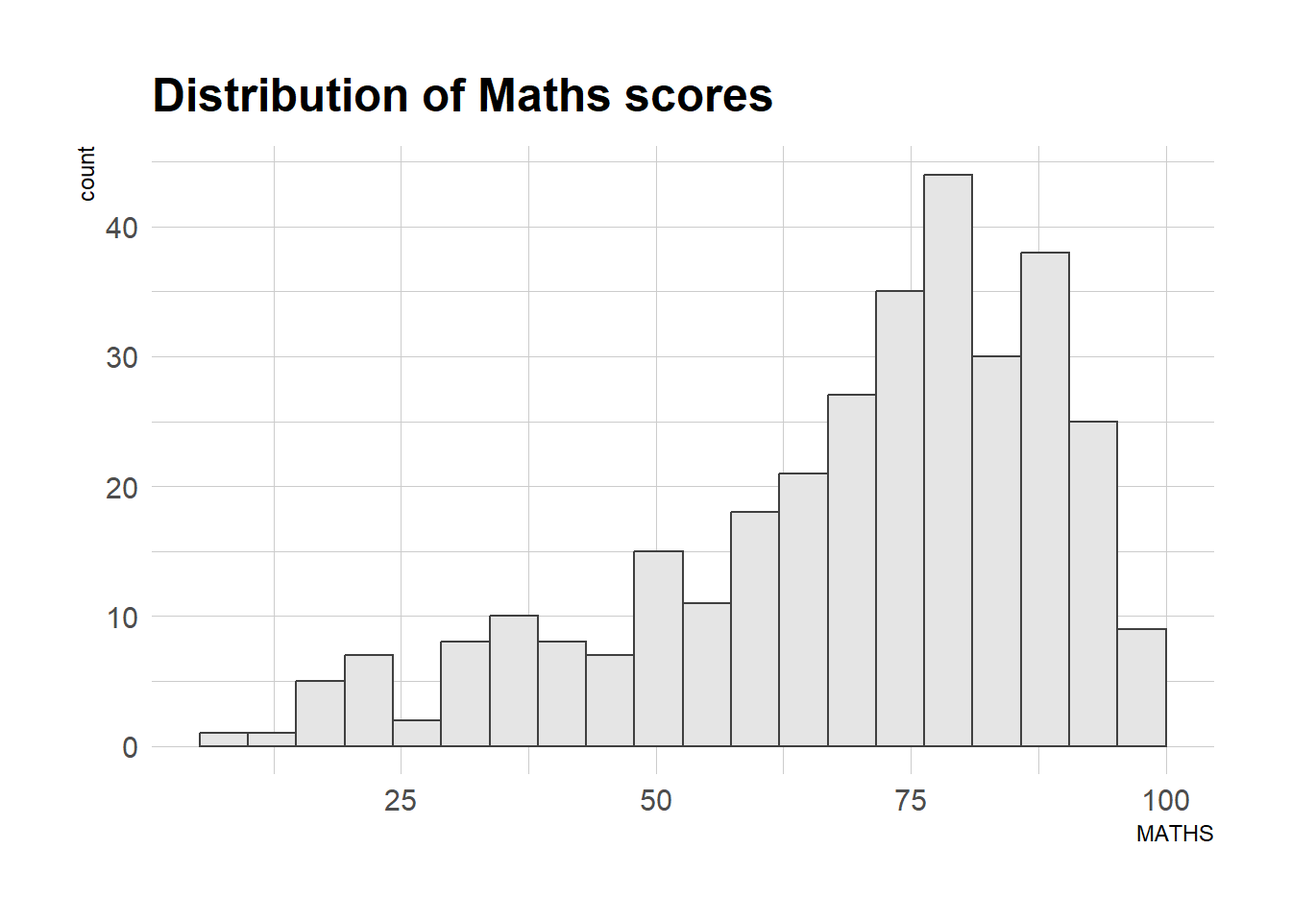
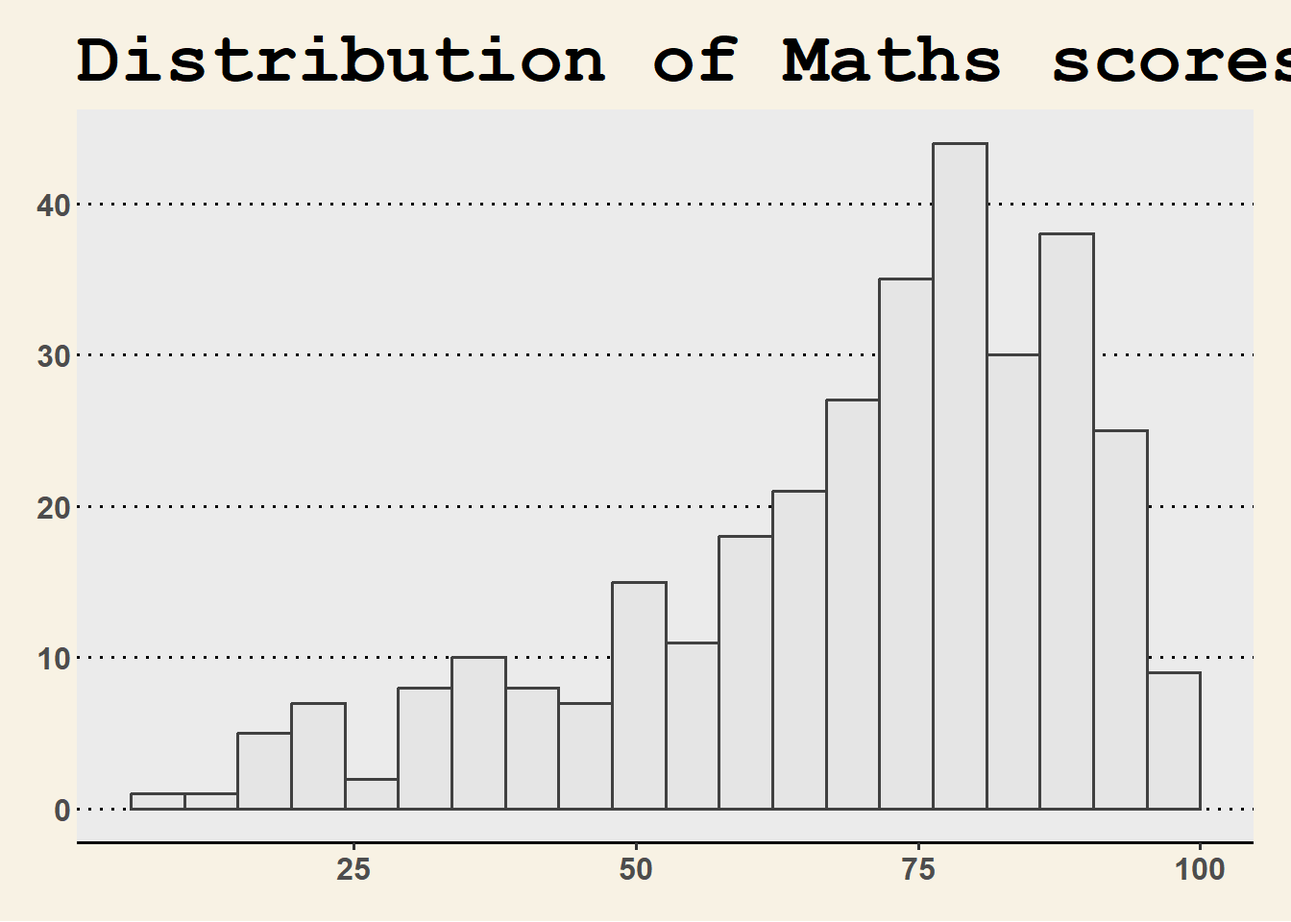
First alternative

diff --git a/_site/HO_EX02.html b/_site/HO_EX02.html
@@ -171,7 +171,7 @@ pre > code.sourceCode > span > a:first-child::before { text-decoration: underlin
    
   <ul>
   <li><a href="#beyond-ggplot2-fundamentals" id="toc-beyond-ggplot2-fundamentals" class="nav-link active" data-scroll-target="#beyond-ggplot2-fundamentals"><span class="header-section-number">1</span> Beyond ggplot2 Fundamentals</a>
-  <ul class="collapse">
+  <ul>
   <li><a href="#overview" id="toc-overview" class="nav-link" data-scroll-target="#overview"><span class="header-section-number">1.1</span> Overview</a></li>
   <li><a href="#getting-started" id="toc-getting-started" class="nav-link" data-scroll-target="#getting-started"><span class="header-section-number">1.2</span> Getting Started</a>
   <ul class="collapse">
@@ -184,7 +184,10 @@ pre > code.sourceCode > span > a:first-child::before { text-decoration: underlin
   </ul></li>
   <li><a href="#beyond-ggplot2-themes" id="toc-beyond-ggplot2-themes" class="nav-link" data-scroll-target="#beyond-ggplot2-themes"><span class="header-section-number">1.4</span> Beyond ggplot2 Themes</a>
   <ul class="collapse">
-  <li><a href="#working-with-ggtheme-package" id="toc-working-with-ggtheme-package" class="nav-link" data-scroll-target="#working-with-ggtheme-package"><span class="header-section-number">1.4.1</span> Working with ggtheme package</a></li>
+  <li><a href="#working-with-ggtheme-package" id="toc-working-with-ggtheme-package" class="nav-link" data-scroll-target="#working-with-ggtheme-package"><span class="header-section-number">1.4.1</span> Working with ggtheme package</a>
+  <ul class="collapse">
+  <li><a href="#extra-alternative-applying-wsg" id="toc-extra-alternative-applying-wsg" class="nav-link" data-scroll-target="#extra-alternative-applying-wsg"><span class="header-section-number">1.4.1.1</span> Extra alternative: Applying wsg()</a></li>
+  </ul></li>
   <li><a href="#working-with-hrbthems-package" id="toc-working-with-hrbthems-package" class="nav-link" data-scroll-target="#working-with-hrbthems-package"><span class="header-section-number">1.4.2</span> Working with hrbthems package</a></li>
   </ul></li>
   <li><a href="#beyond-single-graph" id="toc-beyond-single-graph" class="nav-link" data-scroll-target="#beyond-single-graph"><span class="header-section-number">1.5</span> Beyond Single Graph</a>
@@ -421,6 +424,28 @@ pre > code.sourceCode > span > a:first-child::before { text-decoration: underlin
 </div>
 </div>
 <p>It also provides some extra geoms and scales for ‘ggplot2’. Consult this <a href="https://yutannihilation.github.io/allYourFigureAreBelongToUs/ggthemes/">vignette</a> to learn more.</p>
+<section id="extra-alternative-applying-wsg" class="level4" data-number="1.4.1.1">
+<h4 data-number="1.4.1.1" class="anchored" data-anchor-id="extra-alternative-applying-wsg"><span class="header-section-number">1.4.1.1</span> Extra alternative: Applying wsg()</h4>
+<p>This alternative applies theme_fivethirtyeight() from the ggthemes package to the scatterplot. It gives the chart a cleaner look with a style similar to Wall Street Journal graphics.</p>
+<p>This is useful because it changes the overall visual style of the chart and can cater to different tastes.</p>
+<div class="cell">
+<div class="code-copy-outer-scaffold"><div class="sourceCode cell-code" id="cb7"><pre class="sourceCode r code-with-copy"><code class="sourceCode r"><span id="cb7-1"><a href="#cb7-1" aria-hidden="true" tabindex="-1"></a><span class="fu">ggplot</span>(<span class="at">data=</span>exam_data, </span>
+<span id="cb7-2"><a href="#cb7-2" aria-hidden="true" tabindex="-1"></a>             <span class="fu">aes</span>(<span class="at">x =</span> MATHS)) <span class="sc">+</span></span>
+<span id="cb7-3"><a href="#cb7-3" aria-hidden="true" tabindex="-1"></a>  <span class="fu">geom_histogram</span>(<span class="at">bins=</span><span class="dv">20</span>, </span>
+<span id="cb7-4"><a href="#cb7-4" aria-hidden="true" tabindex="-1"></a>                 <span class="at">boundary =</span> <span class="dv">100</span>,</span>
+<span id="cb7-5"><a href="#cb7-5" aria-hidden="true" tabindex="-1"></a>                 <span class="at">color=</span><span class="st">"grey25"</span>, </span>
+<span id="cb7-6"><a href="#cb7-6" aria-hidden="true" tabindex="-1"></a>                 <span class="at">fill=</span><span class="st">"grey90"</span>) <span class="sc">+</span></span>
+<span id="cb7-7"><a href="#cb7-7" aria-hidden="true" tabindex="-1"></a>  <span class="fu">ggtitle</span>(<span class="st">"Distribution of Maths scores"</span>) <span class="sc">+</span></span>
+<span id="cb7-8"><a href="#cb7-8" aria-hidden="true" tabindex="-1"></a>  <span class="fu">theme_wsj</span>()</span></code></pre></div><button title="Copy to Clipboard" class="code-copy-button"><i class="bi"></i></button></div>
+<div class="cell-output-display">
+<div>
+<figure class="figure">
+<p><img src="HO_EX02_files/figure-html/unnamed-chunk-11-1.png" class="img-fluid figure-img" width="672"></p>
+</figure>
+</div>
+</div>
+</div>
+</section>
 </section>
 <section id="working-with-hrbthems-package" class="level3" data-number="1.4.2">
 <h3 data-number="1.4.2" class="anchored" data-anchor-id="working-with-hrbthems-package"><span class="header-section-number">1.4.2</span> Working with hrbthems package</h3>
@@ -433,7 +458,7 @@ pre > code.sourceCode > span > a:first-child::before { text-decoration: underlin
 <div class="cell-output-display">
 <div>
 <figure class="figure">
-<p><img src="HO_EX02_files/figure-html/unnamed-chunk-11-1.png" class="img-fluid figure-img" width="672"></p>
+<p><img src="HO_EX02_files/figure-html/unnamed-chunk-12-1.png" class="img-fluid figure-img" width="672"></p>
 </figure>
 </div>
 </div>
@@ -441,14 +466,14 @@ pre > code.sourceCode > span > a:first-child::before { text-decoration: underlin
 </div>
 <div id="tabset-5-2" class="tab-pane" role="tabpanel" aria-labelledby="tabset-5-2-tab">
 <div class="cell">
-<div class="code-copy-outer-scaffold"><div class="sourceCode cell-code" id="cb7"><pre class="sourceCode r code-with-copy"><code class="sourceCode r"><span id="cb7-1"><a href="#cb7-1" aria-hidden="true" tabindex="-1"></a><span class="fu">ggplot</span>(<span class="at">data=</span>exam_data, </span>
-<span id="cb7-2"><a href="#cb7-2" aria-hidden="true" tabindex="-1"></a>             <span class="fu">aes</span>(<span class="at">x =</span> MATHS)) <span class="sc">+</span></span>
-<span id="cb7-3"><a href="#cb7-3" aria-hidden="true" tabindex="-1"></a>  <span class="fu">geom_histogram</span>(<span class="at">bins=</span><span class="dv">20</span>, </span>
-<span id="cb7-4"><a href="#cb7-4" aria-hidden="true" tabindex="-1"></a>                 <span class="at">boundary =</span> <span class="dv">100</span>,</span>
-<span id="cb7-5"><a href="#cb7-5" aria-hidden="true" tabindex="-1"></a>                 <span class="at">color=</span><span class="st">"grey25"</span>, </span>
-<span id="cb7-6"><a href="#cb7-6" aria-hidden="true" tabindex="-1"></a>                 <span class="at">fill=</span><span class="st">"grey90"</span>) <span class="sc">+</span></span>
-<span id="cb7-7"><a href="#cb7-7" aria-hidden="true" tabindex="-1"></a>  <span class="fu">ggtitle</span>(<span class="st">"Distribution of Maths scores"</span>) <span class="sc">+</span></span>
-<span id="cb7-8"><a href="#cb7-8" aria-hidden="true" tabindex="-1"></a>  <span class="fu">theme_ipsum</span>()</span></code></pre></div><button title="Copy to Clipboard" class="code-copy-button"><i class="bi"></i></button></div>
+<div class="code-copy-outer-scaffold"><div class="sourceCode cell-code" id="cb8"><pre class="sourceCode r code-with-copy"><code class="sourceCode r"><span id="cb8-1"><a href="#cb8-1" aria-hidden="true" tabindex="-1"></a><span class="fu">ggplot</span>(<span class="at">data=</span>exam_data, </span>
+<span id="cb8-2"><a href="#cb8-2" aria-hidden="true" tabindex="-1"></a>             <span class="fu">aes</span>(<span class="at">x =</span> MATHS)) <span class="sc">+</span></span>
+<span id="cb8-3"><a href="#cb8-3" aria-hidden="true" tabindex="-1"></a>  <span class="fu">geom_histogram</span>(<span class="at">bins=</span><span class="dv">20</span>, </span>
+<span id="cb8-4"><a href="#cb8-4" aria-hidden="true" tabindex="-1"></a>                 <span class="at">boundary =</span> <span class="dv">100</span>,</span>
+<span id="cb8-5"><a href="#cb8-5" aria-hidden="true" tabindex="-1"></a>                 <span class="at">color=</span><span class="st">"grey25"</span>, </span>
+<span id="cb8-6"><a href="#cb8-6" aria-hidden="true" tabindex="-1"></a>                 <span class="at">fill=</span><span class="st">"grey90"</span>) <span class="sc">+</span></span>
+<span id="cb8-7"><a href="#cb8-7" aria-hidden="true" tabindex="-1"></a>  <span class="fu">ggtitle</span>(<span class="st">"Distribution of Maths scores"</span>) <span class="sc">+</span></span>
+<span id="cb8-8"><a href="#cb8-8" aria-hidden="true" tabindex="-1"></a>  <span class="fu">theme_ipsum</span>()</span></code></pre></div><button title="Copy to Clipboard" class="code-copy-button"><i class="bi"></i></button></div>
 </div>
 </div>
 </div>
@@ -462,7 +487,7 @@ pre > code.sourceCode > span > a:first-child::before { text-decoration: underlin
 <div class="cell-output-display">
 <div>
 <figure class="figure">
-<p><img src="HO_EX02_files/figure-html/unnamed-chunk-13-1.png" class="img-fluid figure-img" width="672"></p>
+<p><img src="HO_EX02_files/figure-html/unnamed-chunk-14-1.png" class="img-fluid figure-img" width="672"></p>
 </figure>
 </div>
 </div>
@@ -470,16 +495,16 @@ pre > code.sourceCode > span > a:first-child::before { text-decoration: underlin
 </div>
 <div id="tabset-6-2" class="tab-pane" role="tabpanel" aria-labelledby="tabset-6-2-tab">
 <div class="cell">
-<div class="code-copy-outer-scaffold"><div class="sourceCode cell-code" id="cb8"><pre class="sourceCode r code-with-copy"><code class="sourceCode r"><span id="cb8-1"><a href="#cb8-1" aria-hidden="true" tabindex="-1"></a><span class="fu">ggplot</span>(<span class="at">data=</span>exam_data, </span>
-<span id="cb8-2"><a href="#cb8-2" aria-hidden="true" tabindex="-1"></a>             <span class="fu">aes</span>(<span class="at">x =</span> MATHS)) <span class="sc">+</span></span>
-<span id="cb8-3"><a href="#cb8-3" aria-hidden="true" tabindex="-1"></a>  <span class="fu">geom_histogram</span>(<span class="at">bins=</span><span class="dv">20</span>, </span>
-<span id="cb8-4"><a href="#cb8-4" aria-hidden="true" tabindex="-1"></a>                 <span class="at">boundary =</span> <span class="dv">100</span>,</span>
-<span id="cb8-5"><a href="#cb8-5" aria-hidden="true" tabindex="-1"></a>                 <span class="at">color=</span><span class="st">"grey25"</span>, </span>
-<span id="cb8-6"><a href="#cb8-6" aria-hidden="true" tabindex="-1"></a>                 <span class="at">fill=</span><span class="st">"grey90"</span>) <span class="sc">+</span></span>
-<span id="cb8-7"><a href="#cb8-7" aria-hidden="true" tabindex="-1"></a>  <span class="fu">ggtitle</span>(<span class="st">"Distribution of Maths scores"</span>) <span class="sc">+</span></span>
-<span id="cb8-8"><a href="#cb8-8" aria-hidden="true" tabindex="-1"></a>  <span class="fu">theme_ipsum</span>(<span class="at">axis_title_size =</span> <span class="dv">18</span>,</span>
-<span id="cb8-9"><a href="#cb8-9" aria-hidden="true" tabindex="-1"></a>              <span class="at">base_size =</span> <span class="dv">15</span>,</span>
-<span id="cb8-10"><a href="#cb8-10" aria-hidden="true" tabindex="-1"></a>              <span class="at">grid =</span> <span class="st">"Y"</span>)</span></code></pre></div><button title="Copy to Clipboard" class="code-copy-button"><i class="bi"></i></button></div>
+<div class="code-copy-outer-scaffold"><div class="sourceCode cell-code" id="cb9"><pre class="sourceCode r code-with-copy"><code class="sourceCode r"><span id="cb9-1"><a href="#cb9-1" aria-hidden="true" tabindex="-1"></a><span class="fu">ggplot</span>(<span class="at">data=</span>exam_data, </span>
+<span id="cb9-2"><a href="#cb9-2" aria-hidden="true" tabindex="-1"></a>             <span class="fu">aes</span>(<span class="at">x =</span> MATHS)) <span class="sc">+</span></span>
+<span id="cb9-3"><a href="#cb9-3" aria-hidden="true" tabindex="-1"></a>  <span class="fu">geom_histogram</span>(<span class="at">bins=</span><span class="dv">20</span>, </span>
+<span id="cb9-4"><a href="#cb9-4" aria-hidden="true" tabindex="-1"></a>                 <span class="at">boundary =</span> <span class="dv">100</span>,</span>
+<span id="cb9-5"><a href="#cb9-5" aria-hidden="true" tabindex="-1"></a>                 <span class="at">color=</span><span class="st">"grey25"</span>, </span>
+<span id="cb9-6"><a href="#cb9-6" aria-hidden="true" tabindex="-1"></a>                 <span class="at">fill=</span><span class="st">"grey90"</span>) <span class="sc">+</span></span>
+<span id="cb9-7"><a href="#cb9-7" aria-hidden="true" tabindex="-1"></a>  <span class="fu">ggtitle</span>(<span class="st">"Distribution of Maths scores"</span>) <span class="sc">+</span></span>
+<span id="cb9-8"><a href="#cb9-8" aria-hidden="true" tabindex="-1"></a>  <span class="fu">theme_ipsum</span>(<span class="at">axis_title_size =</span> <span class="dv">18</span>,</span>
+<span id="cb9-9"><a href="#cb9-9" aria-hidden="true" tabindex="-1"></a>              <span class="at">base_size =</span> <span class="dv">15</span>,</span>
+<span id="cb9-10"><a href="#cb9-10" aria-hidden="true" tabindex="-1"></a>              <span class="at">grid =</span> <span class="st">"Y"</span>)</span></code></pre></div><button title="Copy to Clipboard" class="code-copy-button"><i class="bi"></i></button></div>
 </div>
 </div>
 </div>
@@ -510,18 +535,26 @@ pre > code.sourceCode > span > a:first-child::before { text-decoration: underlin
 <ul class="nav nav-tabs" role="tablist"><li class="nav-item" role="presentation"><a class="nav-link active" id="tabset-7-1-tab" data-bs-toggle="tab" data-bs-target="#tabset-7-1" role="tab" aria-controls="tabset-7-1" aria-selected="true" href="">The plot</a></li><li class="nav-item" role="presentation"><a class="nav-link" id="tabset-7-2-tab" data-bs-toggle="tab" data-bs-target="#tabset-7-2" role="tab" aria-controls="tabset-7-2" aria-selected="false" href="">The code</a></li></ul>
 <div class="tab-content">
 <div id="tabset-7-1" class="tab-pane active" role="tabpanel" aria-labelledby="tabset-7-1-tab">
-
+<div class="cell">
+<div class="cell-output-display">
+<div>
+<figure class="figure">
+<p><img src="HO_EX02_files/figure-html/unnamed-chunk-16-1.png" class="img-fluid figure-img" width="672"></p>
+</figure>
+</div>
+</div>
+</div>
 </div>
 <div id="tabset-7-2" class="tab-pane" role="tabpanel" aria-labelledby="tabset-7-2-tab">
 <div class="cell">
-<div class="code-copy-outer-scaffold"><div class="sourceCode cell-code" id="cb9"><pre class="sourceCode r code-with-copy"><code class="sourceCode r"><span id="cb9-1"><a href="#cb9-1" aria-hidden="true" tabindex="-1"></a>p1 <span class="ot">&lt;-</span> <span class="fu">ggplot</span>(<span class="at">data=</span>exam_data, </span>
-<span id="cb9-2"><a href="#cb9-2" aria-hidden="true" tabindex="-1"></a>             <span class="fu">aes</span>(<span class="at">x =</span> MATHS)) <span class="sc">+</span></span>
-<span id="cb9-3"><a href="#cb9-3" aria-hidden="true" tabindex="-1"></a>  <span class="fu">geom_histogram</span>(<span class="at">bins=</span><span class="dv">20</span>, </span>
-<span id="cb9-4"><a href="#cb9-4" aria-hidden="true" tabindex="-1"></a>                 <span class="at">boundary =</span> <span class="dv">100</span>,</span>
-<span id="cb9-5"><a href="#cb9-5" aria-hidden="true" tabindex="-1"></a>                 <span class="at">color=</span><span class="st">"grey25"</span>, </span>
-<span id="cb9-6"><a href="#cb9-6" aria-hidden="true" tabindex="-1"></a>                 <span class="at">fill=</span><span class="st">"grey90"</span>) <span class="sc">+</span> </span>
-<span id="cb9-7"><a href="#cb9-7" aria-hidden="true" tabindex="-1"></a>  <span class="fu">coord_cartesian</span>(<span class="at">xlim=</span><span class="fu">c</span>(<span class="dv">0</span>,<span class="dv">100</span>)) <span class="sc">+</span></span>
-<span id="cb9-8"><a href="#cb9-8" aria-hidden="true" tabindex="-1"></a>  <span class="fu">ggtitle</span>(<span class="st">"Distribution of Maths scores"</span>)</span></code></pre></div><button title="Copy to Clipboard" class="code-copy-button"><i class="bi"></i></button></div>
+<div class="code-copy-outer-scaffold"><div class="sourceCode cell-code" id="cb10"><pre class="sourceCode r code-with-copy"><code class="sourceCode r"><span id="cb10-1"><a href="#cb10-1" aria-hidden="true" tabindex="-1"></a>p1 <span class="ot">&lt;-</span> <span class="fu">ggplot</span>(<span class="at">data=</span>exam_data, </span>
+<span id="cb10-2"><a href="#cb10-2" aria-hidden="true" tabindex="-1"></a>             <span class="fu">aes</span>(<span class="at">x =</span> MATHS)) <span class="sc">+</span></span>
+<span id="cb10-3"><a href="#cb10-3" aria-hidden="true" tabindex="-1"></a>  <span class="fu">geom_histogram</span>(<span class="at">bins=</span><span class="dv">20</span>, </span>
+<span id="cb10-4"><a href="#cb10-4" aria-hidden="true" tabindex="-1"></a>                 <span class="at">boundary =</span> <span class="dv">100</span>,</span>
+<span id="cb10-5"><a href="#cb10-5" aria-hidden="true" tabindex="-1"></a>                 <span class="at">color=</span><span class="st">"grey25"</span>, </span>
+<span id="cb10-6"><a href="#cb10-6" aria-hidden="true" tabindex="-1"></a>                 <span class="at">fill=</span><span class="st">"grey90"</span>) <span class="sc">+</span> </span>
+<span id="cb10-7"><a href="#cb10-7" aria-hidden="true" tabindex="-1"></a>  <span class="fu">coord_cartesian</span>(<span class="at">xlim=</span><span class="fu">c</span>(<span class="dv">0</span>,<span class="dv">100</span>)) <span class="sc">+</span></span>
+<span id="cb10-8"><a href="#cb10-8" aria-hidden="true" tabindex="-1"></a>  <span class="fu">ggtitle</span>(<span class="st">"Distribution of Maths scores"</span>)</span></code></pre></div><button title="Copy to Clipboard" class="code-copy-button"><i class="bi"></i></button></div>
 </div>
 </div>
 </div>
@@ -531,18 +564,26 @@ pre > code.sourceCode > span > a:first-child::before { text-decoration: underlin
 <ul class="nav nav-tabs" role="tablist"><li class="nav-item" role="presentation"><a class="nav-link active" id="tabset-8-1-tab" data-bs-toggle="tab" data-bs-target="#tabset-8-1" role="tab" aria-controls="tabset-8-1" aria-selected="true" href="">The plot</a></li><li class="nav-item" role="presentation"><a class="nav-link" id="tabset-8-2-tab" data-bs-toggle="tab" data-bs-target="#tabset-8-2" role="tab" aria-controls="tabset-8-2" aria-selected="false" href="">The code</a></li></ul>
 <div class="tab-content">
 <div id="tabset-8-1" class="tab-pane active" role="tabpanel" aria-labelledby="tabset-8-1-tab">
-
+<div class="cell">
+<div class="cell-output-display">
+<div>
+<figure class="figure">
+<p><img src="HO_EX02_files/figure-html/unnamed-chunk-18-1.png" class="img-fluid figure-img" width="672"></p>
+</figure>
+</div>
+</div>
+</div>
 </div>
 <div id="tabset-8-2" class="tab-pane" role="tabpanel" aria-labelledby="tabset-8-2-tab">
 <div class="cell">
-<div class="code-copy-outer-scaffold"><div class="sourceCode cell-code" id="cb10"><pre class="sourceCode r code-with-copy"><code class="sourceCode r"><span id="cb10-1"><a href="#cb10-1" aria-hidden="true" tabindex="-1"></a>p2 <span class="ot">&lt;-</span> <span class="fu">ggplot</span>(<span class="at">data=</span>exam_data, </span>
-<span id="cb10-2"><a href="#cb10-2" aria-hidden="true" tabindex="-1"></a>             <span class="fu">aes</span>(<span class="at">x =</span> ENGLISH)) <span class="sc">+</span></span>
-<span id="cb10-3"><a href="#cb10-3" aria-hidden="true" tabindex="-1"></a>  <span class="fu">geom_histogram</span>(<span class="at">bins=</span><span class="dv">20</span>, </span>
-<span id="cb10-4"><a href="#cb10-4" aria-hidden="true" tabindex="-1"></a>                 <span class="at">boundary =</span> <span class="dv">100</span>,</span>
-<span id="cb10-5"><a href="#cb10-5" aria-hidden="true" tabindex="-1"></a>                 <span class="at">color=</span><span class="st">"grey25"</span>, </span>
-<span id="cb10-6"><a href="#cb10-6" aria-hidden="true" tabindex="-1"></a>                 <span class="at">fill=</span><span class="st">"grey90"</span>) <span class="sc">+</span></span>
-<span id="cb10-7"><a href="#cb10-7" aria-hidden="true" tabindex="-1"></a>  <span class="fu">coord_cartesian</span>(<span class="at">xlim=</span><span class="fu">c</span>(<span class="dv">0</span>,<span class="dv">100</span>)) <span class="sc">+</span></span>
-<span id="cb10-8"><a href="#cb10-8" aria-hidden="true" tabindex="-1"></a>  <span class="fu">ggtitle</span>(<span class="st">"Distribution of English scores"</span>)</span></code></pre></div><button title="Copy to Clipboard" class="code-copy-button"><i class="bi"></i></button></div>
+<div class="code-copy-outer-scaffold"><div class="sourceCode cell-code" id="cb11"><pre class="sourceCode r code-with-copy"><code class="sourceCode r"><span id="cb11-1"><a href="#cb11-1" aria-hidden="true" tabindex="-1"></a>p2 <span class="ot">&lt;-</span> <span class="fu">ggplot</span>(<span class="at">data=</span>exam_data, </span>
+<span id="cb11-2"><a href="#cb11-2" aria-hidden="true" tabindex="-1"></a>             <span class="fu">aes</span>(<span class="at">x =</span> ENGLISH)) <span class="sc">+</span></span>
+<span id="cb11-3"><a href="#cb11-3" aria-hidden="true" tabindex="-1"></a>  <span class="fu">geom_histogram</span>(<span class="at">bins=</span><span class="dv">20</span>, </span>
+<span id="cb11-4"><a href="#cb11-4" aria-hidden="true" tabindex="-1"></a>                 <span class="at">boundary =</span> <span class="dv">100</span>,</span>
+<span id="cb11-5"><a href="#cb11-5" aria-hidden="true" tabindex="-1"></a>                 <span class="at">color=</span><span class="st">"grey25"</span>, </span>
+<span id="cb11-6"><a href="#cb11-6" aria-hidden="true" tabindex="-1"></a>                 <span class="at">fill=</span><span class="st">"grey90"</span>) <span class="sc">+</span></span>
+<span id="cb11-7"><a href="#cb11-7" aria-hidden="true" tabindex="-1"></a>  <span class="fu">coord_cartesian</span>(<span class="at">xlim=</span><span class="fu">c</span>(<span class="dv">0</span>,<span class="dv">100</span>)) <span class="sc">+</span></span>
+<span id="cb11-8"><a href="#cb11-8" aria-hidden="true" tabindex="-1"></a>  <span class="fu">ggtitle</span>(<span class="st">"Distribution of English scores"</span>)</span></code></pre></div><button title="Copy to Clipboard" class="code-copy-button"><i class="bi"></i></button></div>
 </div>
 </div>
 </div>
@@ -552,19 +593,27 @@ pre > code.sourceCode > span > a:first-child::before { text-decoration: underlin
 <ul class="nav nav-tabs" role="tablist"><li class="nav-item" role="presentation"><a class="nav-link active" id="tabset-9-1-tab" data-bs-toggle="tab" data-bs-target="#tabset-9-1" role="tab" aria-controls="tabset-9-1" aria-selected="true" href="">The plot</a></li><li class="nav-item" role="presentation"><a class="nav-link" id="tabset-9-2-tab" data-bs-toggle="tab" data-bs-target="#tabset-9-2" role="tab" aria-controls="tabset-9-2" aria-selected="false" href="">The code</a></li></ul>
 <div class="tab-content">
 <div id="tabset-9-1" class="tab-pane active" role="tabpanel" aria-labelledby="tabset-9-1-tab">
-
+<div class="cell">
+<div class="cell-output-display">
+<div>
+<figure class="figure">
+<p><img src="HO_EX02_files/figure-html/unnamed-chunk-20-1.png" class="img-fluid figure-img" width="672"></p>
+</figure>
+</div>
+</div>
+</div>
 </div>
 <div id="tabset-9-2" class="tab-pane" role="tabpanel" aria-labelledby="tabset-9-2-tab">
 <div class="cell">
-<div class="code-copy-outer-scaffold"><div class="sourceCode cell-code" id="cb11"><pre class="sourceCode r code-with-copy"><code class="sourceCode r"><span id="cb11-1"><a href="#cb11-1" aria-hidden="true" tabindex="-1"></a>p3 <span class="ot">&lt;-</span> <span class="fu">ggplot</span>(<span class="at">data=</span>exam_data, </span>
-<span id="cb11-2"><a href="#cb11-2" aria-hidden="true" tabindex="-1"></a>             <span class="fu">aes</span>(<span class="at">x=</span> MATHS, </span>
-<span id="cb11-3"><a href="#cb11-3" aria-hidden="true" tabindex="-1"></a>                 <span class="at">y=</span>ENGLISH)) <span class="sc">+</span></span>
-<span id="cb11-4"><a href="#cb11-4" aria-hidden="true" tabindex="-1"></a>  <span class="fu">geom_point</span>() <span class="sc">+</span></span>
-<span id="cb11-5"><a href="#cb11-5" aria-hidden="true" tabindex="-1"></a>  <span class="fu">geom_smooth</span>(<span class="at">method=</span>lm, </span>
-<span id="cb11-6"><a href="#cb11-6" aria-hidden="true" tabindex="-1"></a>              <span class="at">size=</span><span class="fl">0.5</span>) <span class="sc">+</span>  </span>
-<span id="cb11-7"><a href="#cb11-7" aria-hidden="true" tabindex="-1"></a>  <span class="fu">coord_cartesian</span>(<span class="at">xlim=</span><span class="fu">c</span>(<span class="dv">0</span>,<span class="dv">100</span>),</span>
-<span id="cb11-8"><a href="#cb11-8" aria-hidden="true" tabindex="-1"></a>                  <span class="at">ylim=</span><span class="fu">c</span>(<span class="dv">0</span>,<span class="dv">100</span>)) <span class="sc">+</span></span>
-<span id="cb11-9"><a href="#cb11-9" aria-hidden="true" tabindex="-1"></a>  <span class="fu">ggtitle</span>(<span class="st">"English scores versus Maths scores for Primary 3"</span>)</span></code></pre></div><button title="Copy to Clipboard" class="code-copy-button"><i class="bi"></i></button></div>
+<div class="code-copy-outer-scaffold"><div class="sourceCode cell-code" id="cb12"><pre class="sourceCode r code-with-copy"><code class="sourceCode r"><span id="cb12-1"><a href="#cb12-1" aria-hidden="true" tabindex="-1"></a>p3 <span class="ot">&lt;-</span> <span class="fu">ggplot</span>(<span class="at">data=</span>exam_data, </span>
+<span id="cb12-2"><a href="#cb12-2" aria-hidden="true" tabindex="-1"></a>             <span class="fu">aes</span>(<span class="at">x=</span> MATHS, </span>
+<span id="cb12-3"><a href="#cb12-3" aria-hidden="true" tabindex="-1"></a>                 <span class="at">y=</span>ENGLISH)) <span class="sc">+</span></span>
+<span id="cb12-4"><a href="#cb12-4" aria-hidden="true" tabindex="-1"></a>  <span class="fu">geom_point</span>() <span class="sc">+</span></span>
+<span id="cb12-5"><a href="#cb12-5" aria-hidden="true" tabindex="-1"></a>  <span class="fu">geom_smooth</span>(<span class="at">method=</span>lm, </span>
+<span id="cb12-6"><a href="#cb12-6" aria-hidden="true" tabindex="-1"></a>              <span class="at">size=</span><span class="fl">0.5</span>) <span class="sc">+</span>  </span>
+<span id="cb12-7"><a href="#cb12-7" aria-hidden="true" tabindex="-1"></a>  <span class="fu">coord_cartesian</span>(<span class="at">xlim=</span><span class="fu">c</span>(<span class="dv">0</span>,<span class="dv">100</span>),</span>
+<span id="cb12-8"><a href="#cb12-8" aria-hidden="true" tabindex="-1"></a>                  <span class="at">ylim=</span><span class="fu">c</span>(<span class="dv">0</span>,<span class="dv">100</span>)) <span class="sc">+</span></span>
+<span id="cb12-9"><a href="#cb12-9" aria-hidden="true" tabindex="-1"></a>  <span class="fu">ggtitle</span>(<span class="st">"English scores versus Maths scores for Primary 3"</span>)</span></code></pre></div><button title="Copy to Clipboard" class="code-copy-button"><i class="bi"></i></button></div>
 </div>
 </div>
 </div>
@@ -590,7 +639,7 @@ pre > code.sourceCode > span > a:first-child::before { text-decoration: underlin
 <div class="cell-output-display">
 <div>
 <figure class="figure">
-<p><img src="HO_EX02_files/figure-html/unnamed-chunk-21-1.png" class="img-fluid figure-img" width="672"></p>
+<p><img src="HO_EX02_files/figure-html/unnamed-chunk-22-1.png" class="img-fluid figure-img" width="672"></p>
 </figure>
 </div>
 </div>
@@ -598,7 +647,7 @@ pre > code.sourceCode > span > a:first-child::before { text-decoration: underlin
 </div>
 <div id="tabset-10-2" class="tab-pane" role="tabpanel" aria-labelledby="tabset-10-2-tab">
 <div class="cell">
-<div class="code-copy-outer-scaffold"><div class="sourceCode cell-code" id="cb12"><pre class="sourceCode r code-with-copy"><code class="sourceCode r"><span id="cb12-1"><a href="#cb12-1" aria-hidden="true" tabindex="-1"></a>p1 <span class="sc">+</span> p2</span></code></pre></div><button title="Copy to Clipboard" class="code-copy-button"><i class="bi"></i></button></div>
+<div class="code-copy-outer-scaffold"><div class="sourceCode cell-code" id="cb13"><pre class="sourceCode r code-with-copy"><code class="sourceCode r"><span id="cb13-1"><a href="#cb13-1" aria-hidden="true" tabindex="-1"></a>p1 <span class="sc">+</span> p2</span></code></pre></div><button title="Copy to Clipboard" class="code-copy-button"><i class="bi"></i></button></div>
 </div>
 </div>
 </div>
@@ -620,7 +669,7 @@ pre > code.sourceCode > span > a:first-child::before { text-decoration: underlin
 <div class="cell-output-display">
 <div>
 <figure class="figure">
-<p><img src="HO_EX02_files/figure-html/unnamed-chunk-23-1.png" class="img-fluid figure-img" width="672"></p>
+<p><img src="HO_EX02_files/figure-html/unnamed-chunk-24-1.png" class="img-fluid figure-img" width="672"></p>
 </figure>
 </div>
 </div>
@@ -628,7 +677,7 @@ pre > code.sourceCode > span > a:first-child::before { text-decoration: underlin
 </div>
 <div id="tabset-11-2" class="tab-pane" role="tabpanel" aria-labelledby="tabset-11-2-tab">
 <div class="cell">
-<div class="code-copy-outer-scaffold"><div class="sourceCode cell-code" id="cb13"><pre class="sourceCode r code-with-copy"><code class="sourceCode r"><span id="cb13-1"><a href="#cb13-1" aria-hidden="true" tabindex="-1"></a>(p1 <span class="sc">/</span> p2) <span class="sc">|</span> p3</span></code></pre></div><button title="Copy to Clipboard" class="code-copy-button"><i class="bi"></i></button></div>
+<div class="code-copy-outer-scaffold"><div class="sourceCode cell-code" id="cb14"><pre class="sourceCode r code-with-copy"><code class="sourceCode r"><span id="cb14-1"><a href="#cb14-1" aria-hidden="true" tabindex="-1"></a>(p1 <span class="sc">/</span> p2) <span class="sc">|</span> p3</span></code></pre></div><button title="Copy to Clipboard" class="code-copy-button"><i class="bi"></i></button></div>
 </div>
 </div>
 </div>
@@ -646,7 +695,7 @@ pre > code.sourceCode > span > a:first-child::before { text-decoration: underlin
 <div class="cell-output-display">
 <div>
 <figure class="figure">
-<p><img src="HO_EX02_files/figure-html/unnamed-chunk-25-1.png" class="img-fluid figure-img" width="672"></p>
+<p><img src="HO_EX02_files/figure-html/unnamed-chunk-26-1.png" class="img-fluid figure-img" width="672"></p>
 </figure>
 </div>
 </div>
@@ -654,8 +703,8 @@ pre > code.sourceCode > span > a:first-child::before { text-decoration: underlin
 </div>
 <div id="tabset-12-2" class="tab-pane" role="tabpanel" aria-labelledby="tabset-12-2-tab">
 <div class="cell">
-<div class="code-copy-outer-scaffold"><div class="sourceCode cell-code" id="cb14"><pre class="sourceCode r code-with-copy"><code class="sourceCode r"><span id="cb14-1"><a href="#cb14-1" aria-hidden="true" tabindex="-1"></a>((p1 <span class="sc">/</span> p2) <span class="sc">|</span> p3) <span class="sc">+</span> </span>
-<span id="cb14-2"><a href="#cb14-2" aria-hidden="true" tabindex="-1"></a>  <span class="fu">plot_annotation</span>(<span class="at">tag_levels =</span> <span class="st">'I'</span>)</span></code></pre></div><button title="Copy to Clipboard" class="code-copy-button"><i class="bi"></i></button></div>
+<div class="code-copy-outer-scaffold"><div class="sourceCode cell-code" id="cb15"><pre class="sourceCode r code-with-copy"><code class="sourceCode r"><span id="cb15-1"><a href="#cb15-1" aria-hidden="true" tabindex="-1"></a>((p1 <span class="sc">/</span> p2) <span class="sc">|</span> p3) <span class="sc">+</span> </span>
+<span id="cb15-2"><a href="#cb15-2" aria-hidden="true" tabindex="-1"></a>  <span class="fu">plot_annotation</span>(<span class="at">tag_levels =</span> <span class="st">'I'</span>)</span></code></pre></div><button title="Copy to Clipboard" class="code-copy-button"><i class="bi"></i></button></div>
 </div>
 </div>
 </div>
@@ -672,7 +721,7 @@ pre > code.sourceCode > span > a:first-child::before { text-decoration: underlin
 <div class="cell-output-display">
 <div>
 <figure class="figure">
-<p><img src="HO_EX02_files/figure-html/unnamed-chunk-27-1.png" class="img-fluid figure-img" width="672"></p>
+<p><img src="HO_EX02_files/figure-html/unnamed-chunk-28-1.png" class="img-fluid figure-img" width="672"></p>
 </figure>
 </div>
 </div>
@@ -680,11 +729,11 @@ pre > code.sourceCode > span > a:first-child::before { text-decoration: underlin
 </div>
 <div id="tabset-13-2" class="tab-pane" role="tabpanel" aria-labelledby="tabset-13-2-tab">
 <div class="cell">
-<div class="code-copy-outer-scaffold"><div class="sourceCode cell-code" id="cb15"><pre class="sourceCode r code-with-copy"><code class="sourceCode r"><span id="cb15-1"><a href="#cb15-1" aria-hidden="true" tabindex="-1"></a>p3 <span class="sc">+</span> <span class="fu">inset_element</span>(p2, </span>
-<span id="cb15-2"><a href="#cb15-2" aria-hidden="true" tabindex="-1"></a>                   <span class="at">left =</span> <span class="fl">0.02</span>, </span>
-<span id="cb15-3"><a href="#cb15-3" aria-hidden="true" tabindex="-1"></a>                   <span class="at">bottom =</span> <span class="fl">0.7</span>, </span>
-<span id="cb15-4"><a href="#cb15-4" aria-hidden="true" tabindex="-1"></a>                   <span class="at">right =</span> <span class="fl">0.5</span>, </span>
-<span id="cb15-5"><a href="#cb15-5" aria-hidden="true" tabindex="-1"></a>                   <span class="at">top =</span> <span class="dv">1</span>)</span></code></pre></div><button title="Copy to Clipboard" class="code-copy-button"><i class="bi"></i></button></div>
+<div class="code-copy-outer-scaffold"><div class="sourceCode cell-code" id="cb16"><pre class="sourceCode r code-with-copy"><code class="sourceCode r"><span id="cb16-1"><a href="#cb16-1" aria-hidden="true" tabindex="-1"></a>p3 <span class="sc">+</span> <span class="fu">inset_element</span>(p2, </span>
+<span id="cb16-2"><a href="#cb16-2" aria-hidden="true" tabindex="-1"></a>                   <span class="at">left =</span> <span class="fl">0.02</span>, </span>
+<span id="cb16-3"><a href="#cb16-3" aria-hidden="true" tabindex="-1"></a>                   <span class="at">bottom =</span> <span class="fl">0.7</span>, </span>
+<span id="cb16-4"><a href="#cb16-4" aria-hidden="true" tabindex="-1"></a>                   <span class="at">right =</span> <span class="fl">0.5</span>, </span>
+<span id="cb16-5"><a href="#cb16-5" aria-hidden="true" tabindex="-1"></a>                   <span class="at">top =</span> <span class="dv">1</span>)</span></code></pre></div><button title="Copy to Clipboard" class="code-copy-button"><i class="bi"></i></button></div>
 </div>
 </div>
 </div>
@@ -701,7 +750,7 @@ pre > code.sourceCode > span > a:first-child::before { text-decoration: underlin
 <div class="cell-output-display">
 <div>
 <figure class="figure">
-<p><img src="HO_EX02_files/figure-html/unnamed-chunk-29-1.png" class="img-fluid figure-img" width="672"></p>
+<p><img src="HO_EX02_files/figure-html/unnamed-chunk-30-1.png" class="img-fluid figure-img" width="672"></p>
 </figure>
 </div>
 </div>
@@ -709,8 +758,8 @@ pre > code.sourceCode > span > a:first-child::before { text-decoration: underlin
 </div>
 <div id="tabset-14-2" class="tab-pane" role="tabpanel" aria-labelledby="tabset-14-2-tab">
 <div class="cell">
-<div class="code-copy-outer-scaffold"><div class="sourceCode cell-code" id="cb16"><pre class="sourceCode r code-with-copy"><code class="sourceCode r"><span id="cb16-1"><a href="#cb16-1" aria-hidden="true" tabindex="-1"></a>patchwork <span class="ot">&lt;-</span> (p1 <span class="sc">/</span> p2) <span class="sc">|</span> p3</span>
-<span id="cb16-2"><a href="#cb16-2" aria-hidden="true" tabindex="-1"></a>patchwork <span class="sc">&amp;</span> <span class="fu">theme_economist</span>()</span></code></pre></div><button title="Copy to Clipboard" class="code-copy-button"><i class="bi"></i></button></div>
+<div class="code-copy-outer-scaffold"><div class="sourceCode cell-code" id="cb17"><pre class="sourceCode r code-with-copy"><code class="sourceCode r"><span id="cb17-1"><a href="#cb17-1" aria-hidden="true" tabindex="-1"></a>patchwork <span class="ot">&lt;-</span> (p1 <span class="sc">/</span> p2) <span class="sc">|</span> p3</span>
+<span id="cb17-2"><a href="#cb17-2" aria-hidden="true" tabindex="-1"></a>patchwork <span class="sc">&amp;</span> <span class="fu">theme_economist</span>()</span></code></pre></div><button title="Copy to Clipboard" class="code-copy-button"><i class="bi"></i></button></div>
 </div>
 </div>
 </div>
